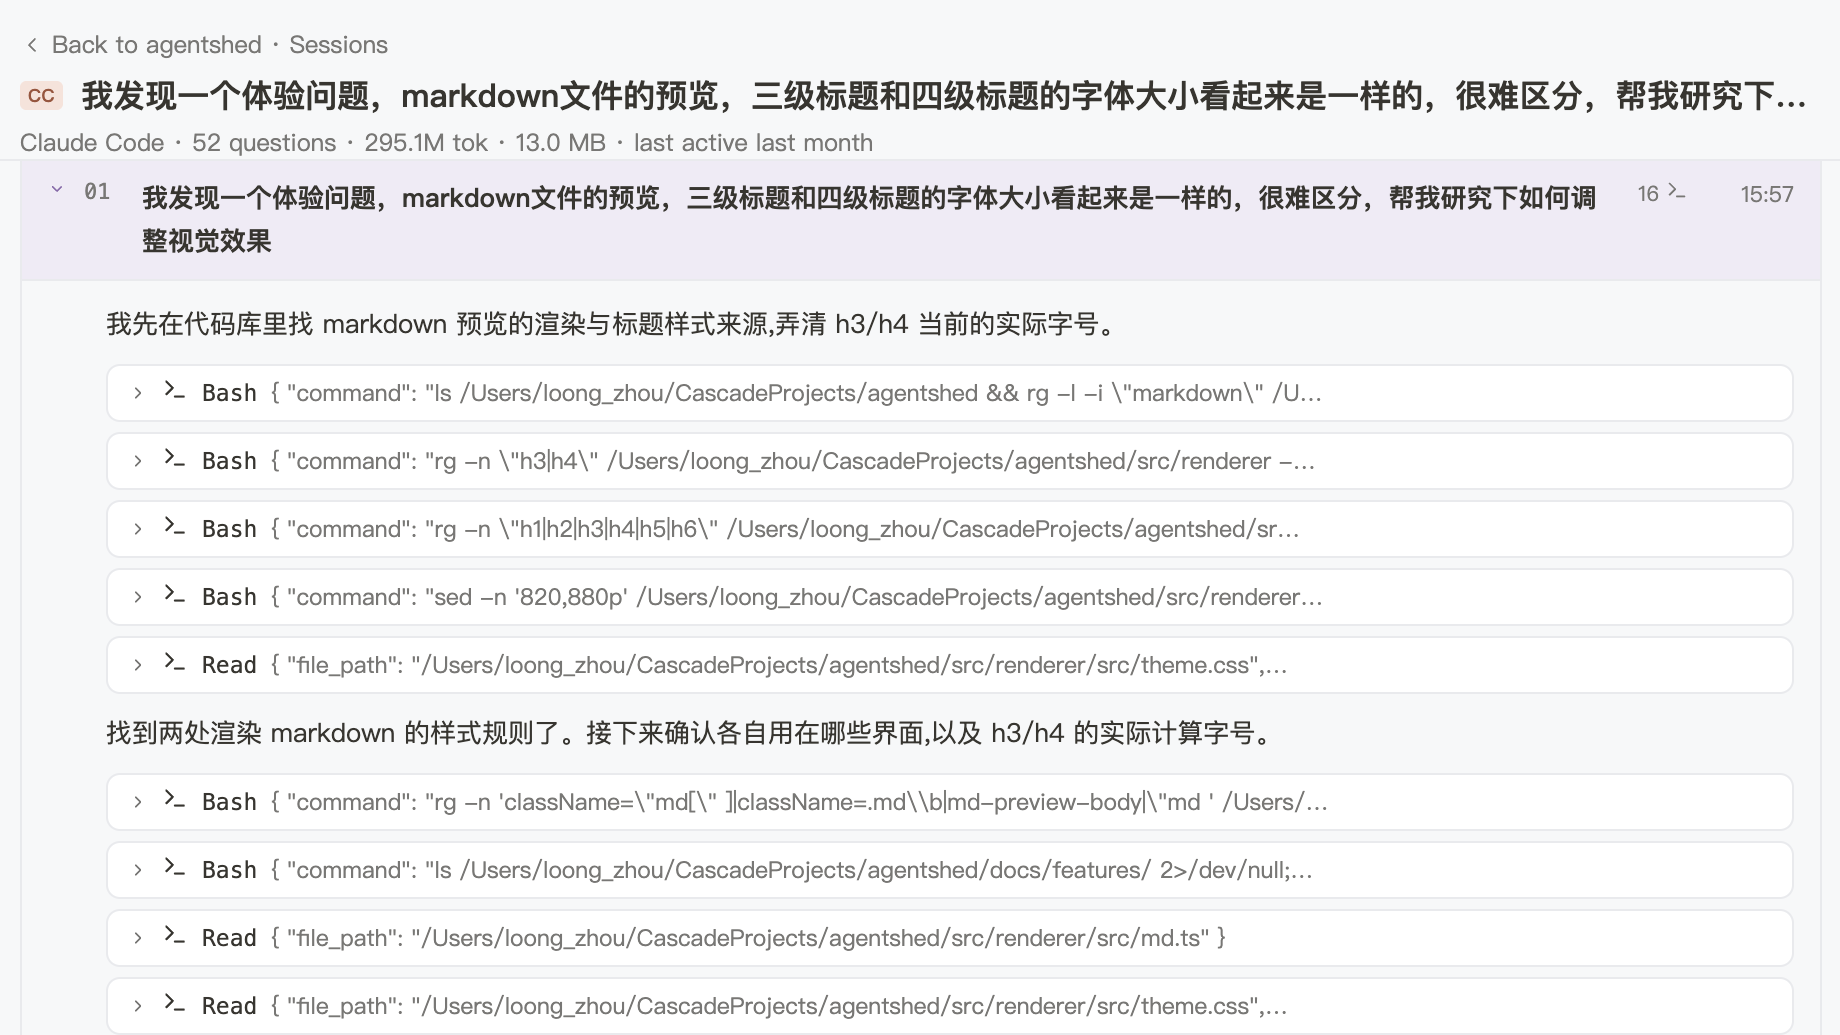
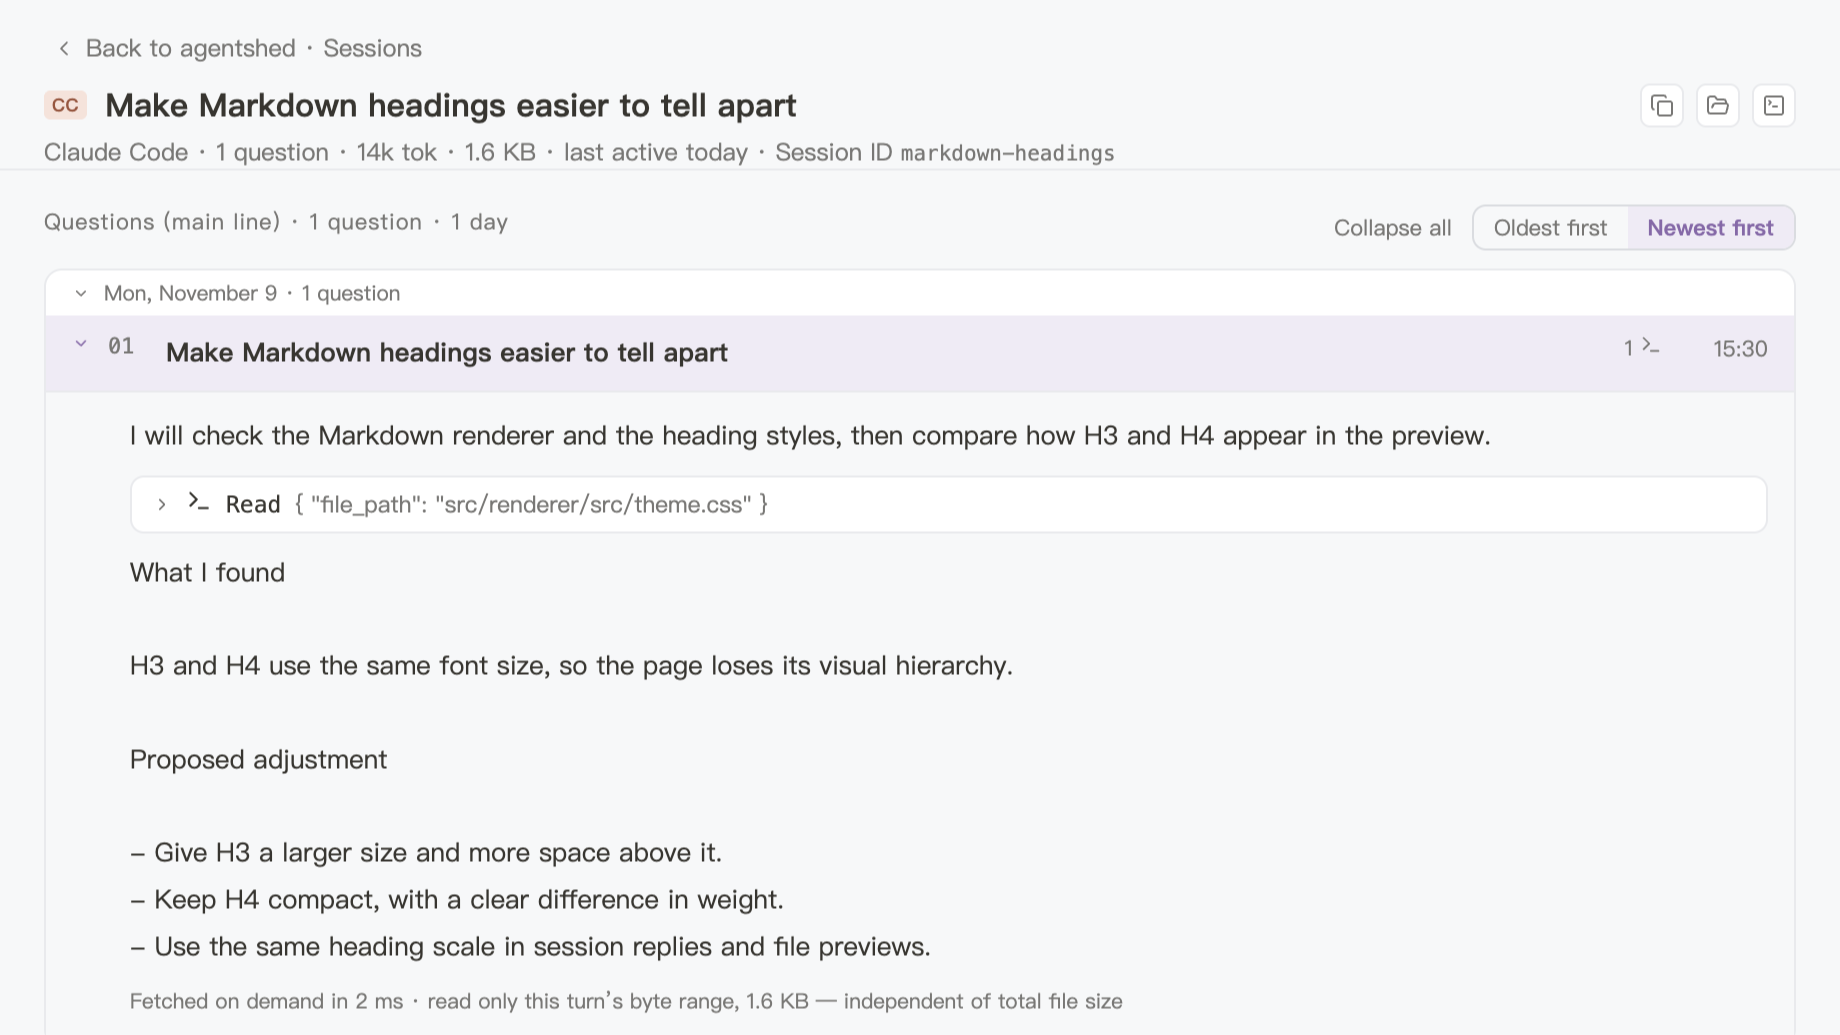
fix(site): refresh English session screenshot and pre-release copy (#393)

diff --git a/site/test/apply-download.test.ts b/site/test/apply-download.test.ts
@@ -84,15 +84,15 @@ describe('a state applied to the served page', () => {
     applyView(doc, view({ kind: 'test', version: '0.1.0-beta' }, 'en'))
     const got = read(doc)
     const tag = `${REPO}/releases/tag/v0.1.0-beta`
-    expect(got.hero).toEqual({ text: 'Download test version 0.1.0-beta', href: tag, target: '_blank', rel: 'noopener' })
-    expect(got.pill).toBe('Test version')
-    expect(got.meta).toBe('Test version macOS 12 or later · Apple Silicon')
-    expect(got.note).toBe('No stable release yet. The test version downloads from GitHub and may still be rough in places.')
+    expect(got.hero).toEqual({ text: 'Download pre-release version 0.1.0-beta', href: tag, target: '_blank', rel: 'noopener' })
+    expect(got.pill).toBe('Pre-release version')
+    expect(got.meta).toBe('Pre-release version macOS 12 or later · Apple Silicon')
+    expect(got.note).toBe('No stable release yet. The pre-release version downloads from GitHub and may still be rough in places.')
     expect(got.every).toBeNull()
     expect(got.ctaChildren).toEqual(['btn btn-primary', 'meta', 'beta-note'])
-    expect(got.linePill).toBe('Test version')
-    expect(got.line).toBe('Test version Only a test version so far: 0.1.0-beta')
-    expect(got.buttons).toEqual([{ text: 'Download the test version from GitHub', href: tag, target: '_blank', rel: 'noopener', kind: 'primary', icon: 1 }])
+    expect(got.linePill).toBe('Pre-release version')
+    expect(got.line).toBe('Pre-release version Only a pre-release version so far: 0.1.0-beta')
+    expect(got.buttons).toEqual([{ text: 'Download the pre-release version from GitHub', href: tag, target: '_blank', rel: 'noopener', kind: 'primary', icon: 1 }])
   })
 
   test.each(['zh', 'en'] as const)('%s: a later state replaces an earlier one in place, leaving nothing of it (Failure A7)', (locale) => {

diff --git a/site/src/download.test.ts b/site/src/download.test.ts
@@ -95,16 +95,16 @@ describe('the formal state from GitHub', () => {
 })
 
 describe('the test state', () => {
-  test('English: the test version on GitHub, said plainly', () => {
+  test('English: the pre-release version on GitHub, said plainly', () => {
     const v = view({ kind: 'test', version: '0.1.0-beta' }, 'en')
     const page = `${REPO}/releases/tag/v0.1.0-beta`
-    expect(v.hero).toEqual({ label: 'Download test version 0.1.0-beta', href: page, newTab: true, kind: 'primary' })
-    expect(v.pill).toBe('Test version')
-    expect(v.note).toBe('No stable release yet. The test version downloads from GitHub and may still be rough in places.')
+    expect(v.hero).toEqual({ label: 'Download pre-release version 0.1.0-beta', href: page, newTab: true, kind: 'primary' })
+    expect(v.pill).toBe('Pre-release version')
+    expect(v.note).toBe('No stable release yet. The pre-release version downloads from GitHub and may still be rough in places.')
     expect(v.every).toBeNull()
-    expect(v.section.pill).toBe('Test version')
-    expect(v.section.line).toBe('Only a test version so far: 0.1.0-beta')
-    expect(v.section.buttons).toEqual([{ label: 'Download the test version from GitHub', href: page, newTab: true, kind: 'primary' }])
+    expect(v.section.pill).toBe('Pre-release version')
+    expect(v.section.line).toBe('Only a pre-release version so far: 0.1.0-beta')
+    expect(v.section.buttons).toEqual([{ label: 'Download the pre-release version from GitHub', href: page, newTab: true, kind: 'primary' }])
   })
 })
 

diff --git a/site/src/shots.ts b/site/src/shots.ts
@@ -1,8 +1,9 @@
 // The screenshots (landing-page::REQ-005), taken from the built app, one set per language, in the light
-// appearance: the hero and the overview, project, token and session cuts over the owner's own agent data,
+// appearance: the hero and the overview, project, token and Chinese session cuts over the owner's own agent data,
 // approved for publication (2026-10-13; the hero's retake 2026-10-21); the memory and search cuts over a made-up
-// home with the same projects in both (the owner's choice, 2026-10-21). They ship as static files under
-// public/shots/ with their pixel sizes declared, so their space is held before they load.
+// home with the same projects in both (the owner's choice, 2026-10-21). The English session cut uses an
+// English example conversation (retaken 2026-11-09). They ship as static files under public/shots/ with
+// their pixel sizes declared, so their space is held before they load.
 import type { Locale } from './i18n/ui'
 
 /** The features section's views, in the order of its steps (landing-page::US-003/AC-01) */

diff --git a/site/src/i18n/ui.ts b/site/src/i18n/ui.ts
@@ -217,11 +217,11 @@ const en: Dictionary = {
       github: 'GitHub'
     },
     test: {
-      hero: 'Download test version {version}',
-      pill: 'Test version',
-      note: 'No stable release yet. The test version downloads from GitHub and may still be rough in places.',
-      line: 'Only a test version so far: {version}',
-      button: 'Download the test version from GitHub'
+      hero: 'Download pre-release version {version}',
+      pill: 'Pre-release version',
+      note: 'No stable release yet. The pre-release version downloads from GitHub and may still be rough in places.',
+      line: 'Only a pre-release version so far: {version}',
+      button: 'Download the pre-release version from GitHub'
     }
   },
   footer: { github: 'GitHub', releases: 'Releases', copyright: '© 2026 aloongplanet' }

diff --git a/docs/specs/landing-page.md b/docs/specs/landing-page.md
@@ -36,7 +36,7 @@ it without reading the repository.
 - landing-page::US-001/AC-02: When a formal release exists, the hero button downloads that release's
   DMG directly.
 - landing-page::US-001/AC-03: When only pre-releases exist, the hero button leads to the newest
-  pre-release on GitHub, and the page says plainly that it is a test version and that no stable release
+  pre-release on GitHub, and the page says plainly that it is a pre-release version and that no stable release
   exists yet.
 - landing-page::US-001/AC-04: When the page cannot tell what exists, the button still leads to the
   downloads: GitHub's release list.
@@ -96,11 +96,11 @@ notice does not alarm me.
   buttons: Download (the R2 DMG) and GitHub (the same DMG on GitHub).
 - landing-page::REQ-002/AC-02: **Formal (from GitHub)**: the same as AC-01, except that every link goes
   to GitHub and the download row has the one Download button.
-- landing-page::REQ-002/AC-03: **Test**: the hero button reads "Download test version <version>" and
-  leads to that pre-release's page on GitHub. Beneath it, the platform line carries a "Test version"
-  pill, followed by the note "No stable release yet. The test version downloads from GitHub and may
-  still be rough in places." The download section reads "Only a test version so far: <version>", with
-  the pill, and its one button reads "Download the test version from GitHub".
+- landing-page::REQ-002/AC-03: **Test**: the hero button reads "Download pre-release version <version>" and
+  leads to that pre-release's page on GitHub. Beneath it, the platform line carries a "Pre-release version"
+  pill, followed by the note "No stable release yet. The pre-release version downloads from GitHub and may
+  still be rough in places." The download section reads "Only a pre-release version so far: <version>", with
+  the pill, and its one button reads "Download the pre-release version from GitHub".
 - landing-page::REQ-002/AC-04: **List**: the hero button reads "Download Agentshed from GitHub" and leads
   to the release list. Beneath it is the platform line, with no pill and no version anywhere in the
   buttons. The download section reads "Version details can't be loaded right now — download from
@@ -136,12 +136,13 @@ Releases and the copyright line.
 
 ### landing-page::REQ-005 The screenshots
 
-- landing-page::REQ-005/AC-01: The hero screenshot and the overview, project, token and session
+- landing-page::REQ-005/AC-01: The hero screenshot and the overview, project, token and Chinese session
   screenshots come from the built app over the owner's own agent data, approved for publication by the
   owner (on 2026-10-13; the hero's retake on 2026-10-21). The memory and search screenshots come from the
   built app over a made-up home whose projects, memory files and questions have the shape of real
   ones, the same projects in both (the owner's choice, 2026-10-21). There is one set per language, taken
-  in the light appearance.
+  in the light appearance. The English session screenshot is retaken from the built app over an English
+  example conversation (2026-11-09), including English questions, replies and tool details.
 - landing-page::REQ-005/AC-02: The hero screenshot is the whole window, its rail showing the Search
   item. Each feature screenshot is cut to the part of the window its step is about. All six are the
   same size (16:9) at the same zoom, so the text stays one size as the steps turn. Each cut ends between
@@ -258,8 +259,8 @@ since they never reach it (mac-distribution::CON-004).
 - E1 The pointer and GitHub's answer are external data. Only validated version strings and URLs on the
   expected hosts (the download host and github.com) reach the page, rendered as text and as link
   targets. Release notes and other release text are never inserted into the page.
-- E2 The hero and the overview, project, token and session screenshots show real project names, paths,
-  usage and session text by the owner's decision; the memory and search screenshots show none of the
+- E2 The hero and the overview, project, token and Chinese session screenshots show real project names, paths,
+  usage and session text by the owner's decision; the English session, memory and search screenshots show none of the
   owner's data (landing-page::REQ-005/AC-01). Retaking them is the only way to change what they show, so the hero,
   overview and project screenshots keep showing the Instructions section's former name and place until they are
   next retaken.
@@ -290,7 +291,7 @@ since they never reach it (mac-distribution::CON-004).
   visitor's view (the view starts below the sticky header), the page scrolls by the block's change, so
   what the visitor sees does not move; while the block is in view it changes in view (Failure A7).
 - **The palette** is the app's purple palette, with light and dark both declared and switched by the
-  system appearance. The test version's pill and note use the app's warning pair. The GitHub button
+  system appearance. The pre-release version's pill and note use the app's warning pair. The GitHub button
   beside Download is a secondary button: the card ground with the strong line, and the accent border on
   the soft accent ground on hover. Icons are inline SVG copied from Lucide (download). The text is set in
   the system font stack; the page loads no web font.
@@ -316,7 +317,8 @@ since they never reach it (mac-distribution::CON-004).
   pixels from a window 1280pt wide and 800pt tall. Each feature cut is 920×517pt (16:9), the narrowest that
   holds the token page's trend chart and per-model figures whole. The search and memory screenshots are
   taken from a window narrowed to 984pt, so that the pane reflows into the 920pt cut; the memory cut
-  expands a project with only a few memory files, so that other projects stay in view.
+  expands a project with only a few memory files, so that other projects stay in view. The English session
+  retake uses a 1240pt window so the session pane fits the 920pt cut without truncating its right edge.
 
 ## Testing Decisions
 

diff --git a/docs/features/landing-page.md b/docs/features/landing-page.md
@@ -17,15 +17,15 @@ explains the install, and always offers whichever release exists, without being 
 - The download button offers the release that exists:
   - when a stable version exists, "Download Agentshed <version>" downloads its disk image directly, with
     a link to every version on GitHub beneath it
-  - when only a test version exists, "Download test version <version>" leads to that version's page on
-    GitHub, and the page says plainly that it is a test version and that no stable release exists yet
+  - when only a pre-release version exists, "Download pre-release version <version>" leads to that version's page on
+    GitHub, and the page says plainly that it is a pre-release version and that no stable release exists yet
   - when the page cannot tell what exists (offline, for example), "Download Agentshed from GitHub" leads
     to the list of releases on GitHub
 - Until the page has found out what exists it offers the list of releases, which is already a way to
   download. When the answer arrives, the buttons change in place; a visitor who has scrolled past the
   hero sees nothing move
 - The download section at the end of the page makes the same offer: the current version with its
-  download, the test version with its "Test version" pill, or a button to the list on GitHub
+  download, the pre-release version with its "Pre-release version" pill, or a button to the list on GitHub
 - The features section walks through six of the app's views — the overview, what each project has, what
   the agents remember, token usage and trends, sessions revisited, and search across projects — each with a
   screenshot. On a wide screen the section stays pinned under the header while the page scrolls past it,
@@ -43,8 +43,9 @@ explains the install, and always offers whichever release exists, without being 
 - Chinese and English only
 - One download only: the disk image for Macs with Apple Silicon on macOS 12 or later. There is no Intel,
   Windows or Linux download
-- When a stable version exists, a newer test version is not offered on the page; it is reached through
+- When a stable version exists, a newer pre-release version is not offered on the page; it is reached through
   the link to every version on GitHub
 - No release notes and no download counts are shown
 - The feature steps turn with the scroll only; there is nothing to click between them
-- The screenshots are real screenshots of the app; they change only when they are retaken
+- The screenshots are real screenshots of the app; they change only when they are retaken. The English
+  sessions screenshot shows an English example conversation, including its questions, replies and tool details

diff --git a/site/README.md b/site/README.md
@@ -39,9 +39,10 @@ files), which is why CI installs the site's dependencies before linting.
 - `src/scripts/`: the features section's pinned showcase, whose step follows the scroll (`features.ts`), the language switch that keeps
   the current step and scroll position (`language-switch.ts`), and the download script that reads, decides and
   shows the state in place (`download.ts`, applying it with `apply-download.ts`).
-- `src/shots.ts` and `public/shots/`: the screenshots, one set per language: the hero and four feature cuts
-  over the owner's data, approved for publication (2026-10-13; the hero's retake 2026-10-21), and the memory and
-  search cuts over made-up data. They change only by retaking them from the app, at the same sizes (the hero
+- `src/shots.ts` and `public/shots/`: the screenshots, one set per language. The hero, overview, project,
+  token and Chinese session cuts show the owner's data, approved for publication (2026-10-13; the hero's
+  retake 2026-10-21). The memory, search and English session cuts show made-up data (the English session
+  retaken 2026-11-09). They change only by retaking them from the app, at the same sizes (the hero
   2560×1536, every feature cut 1840×1035).
 - `public/icon-64.png`, `public/icon-256.png`: the app icon, scaled from `build/icon.png`:
   `sips -z 64 64 build/icon.png --out site/public/icon-64.png` (and 256 for the other), from the repository

diff --git a/docs/adr/0031-macos-release-line.md b/docs/adr/0031-macos-release-line.md
@@ -77,7 +77,7 @@ We choose **option 1**:
   download host is `dl.agentshed.aloongplanet.com`; the fallback is not used.
 - **Landing page**: `agentshed.aloongplanet.com`, a `site/` project built with Astro and deployed by
   Cloudflare Pages, in Chinese and English. Its download points at the latest formal release on R2; while
-  no formal release exists, it points at the GitHub pre-release and labels it a test version.
+  no formal release exists, it points at the GitHub pre-release and labels it a pre-release version.
 - **First release**: `v0.1.0-beta`, a pre-release.
 
 ## Consequences
